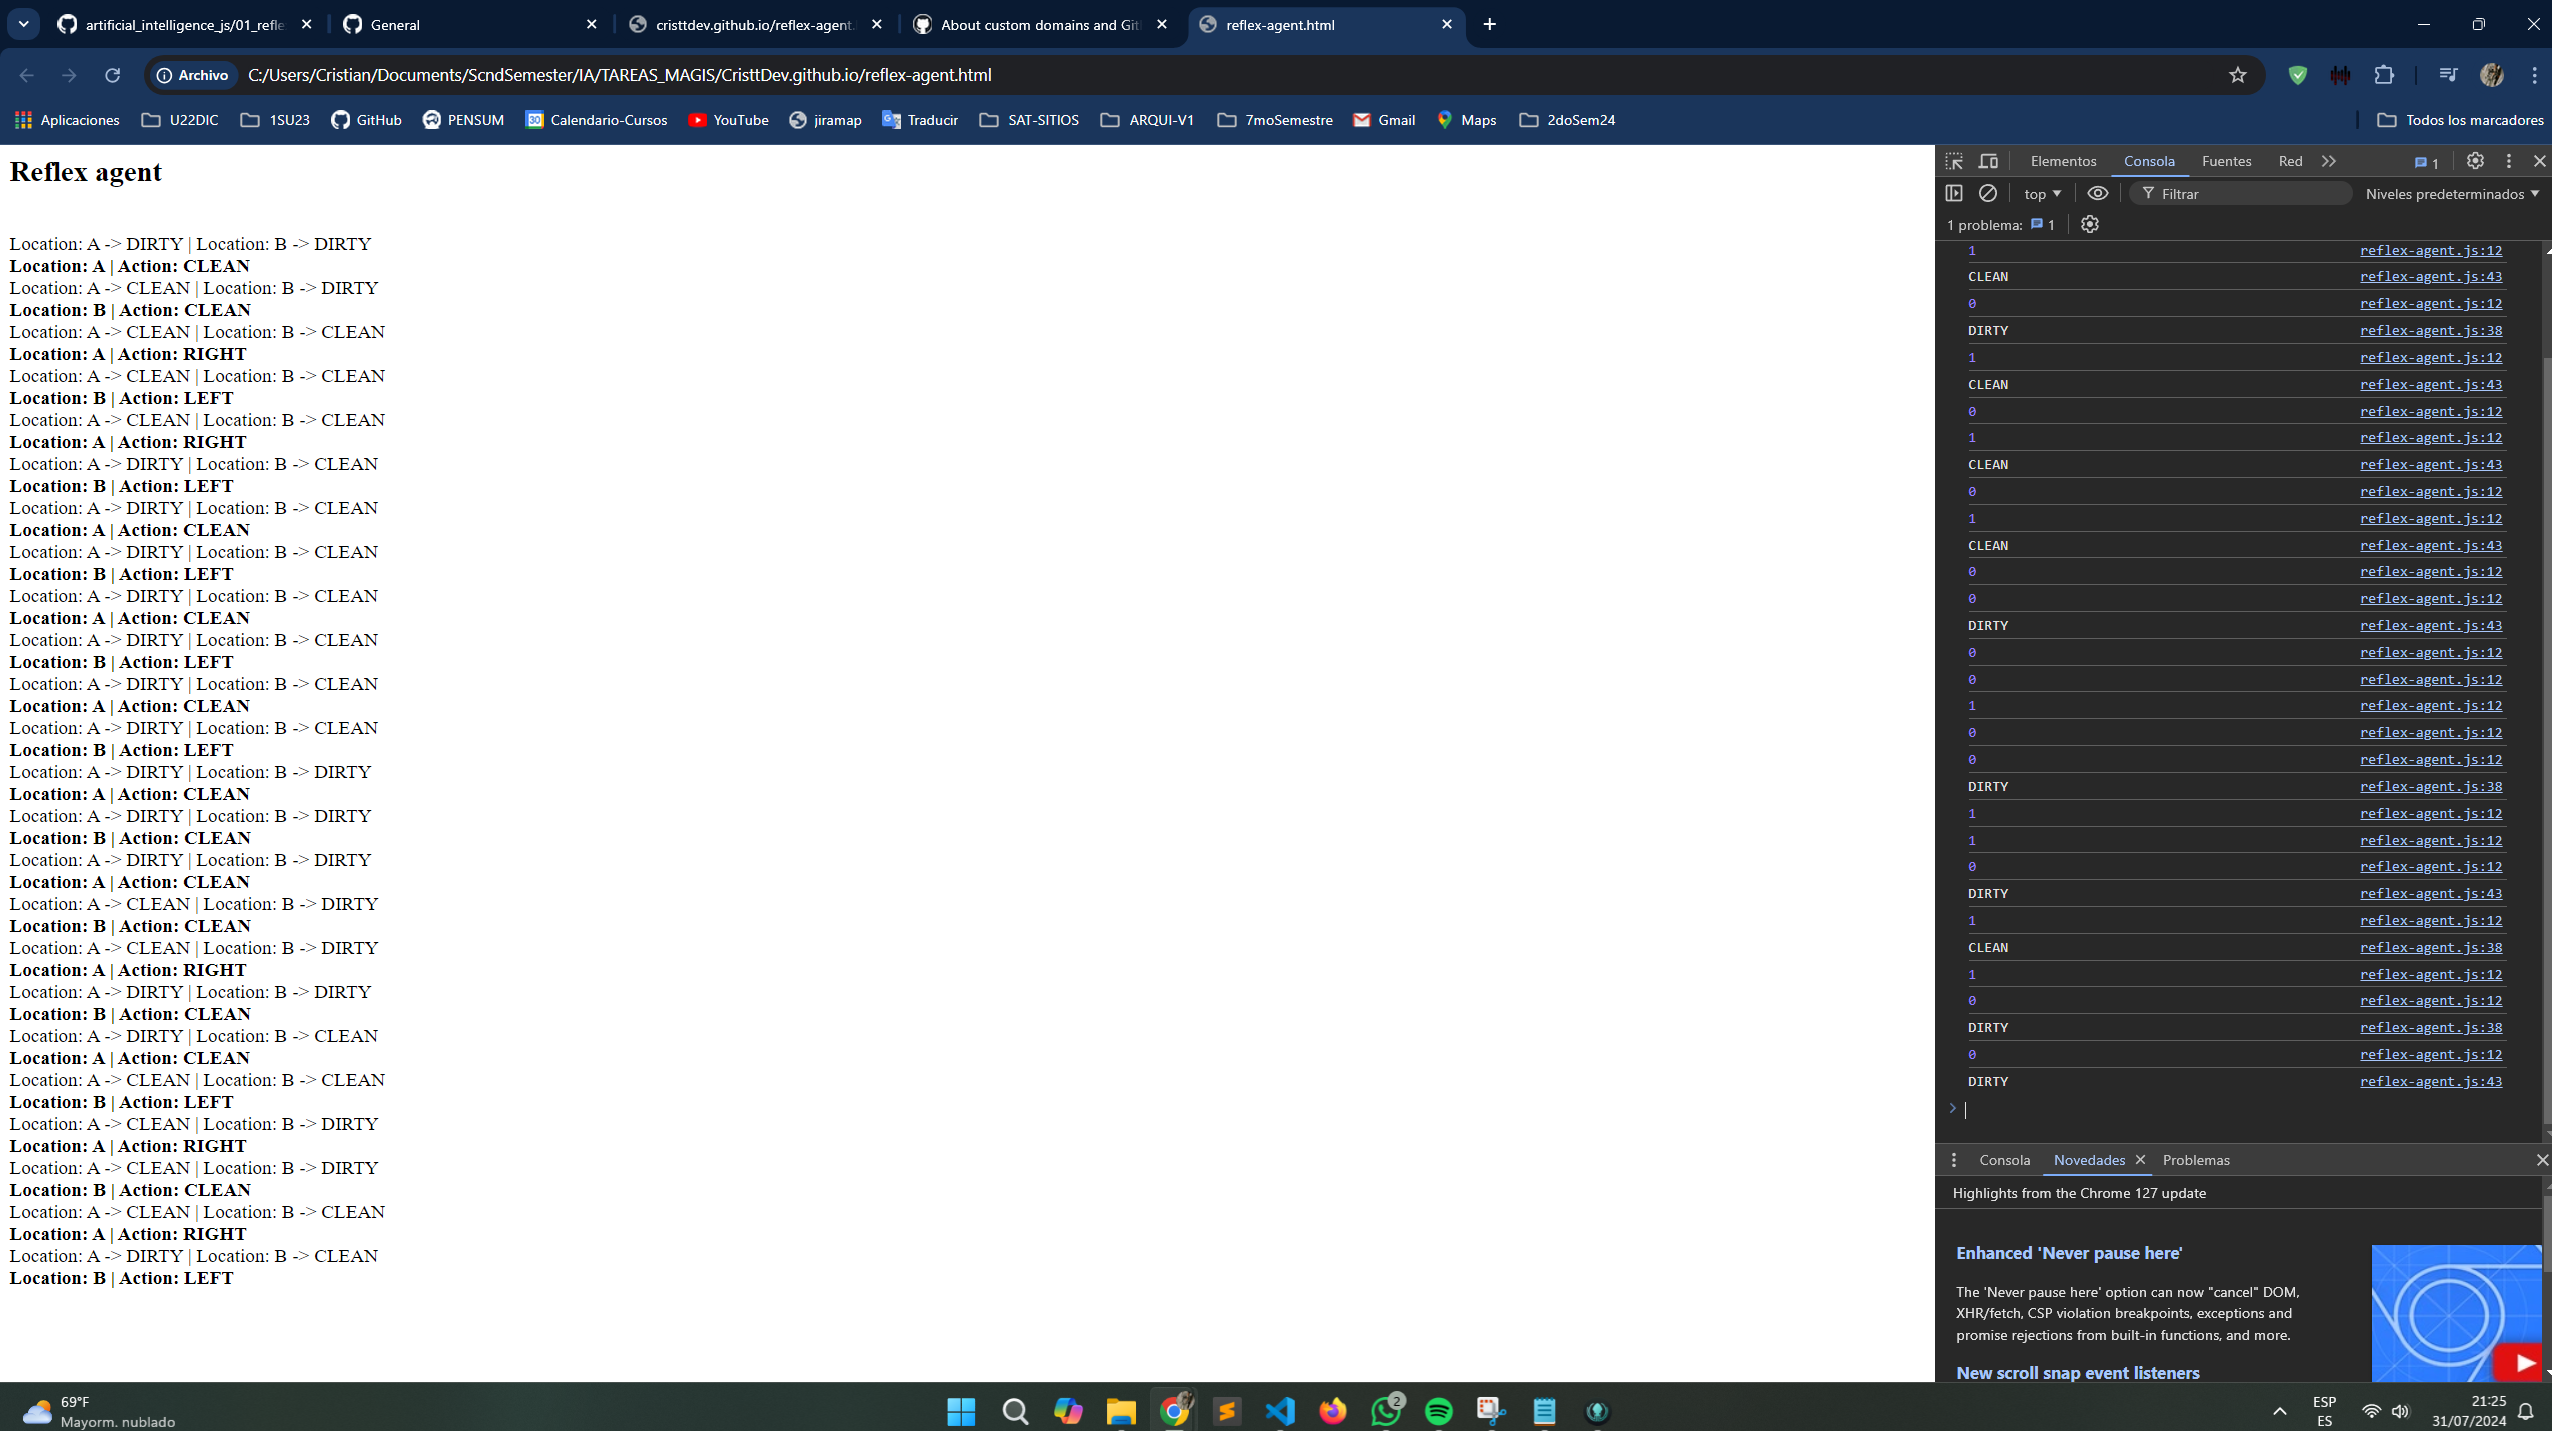
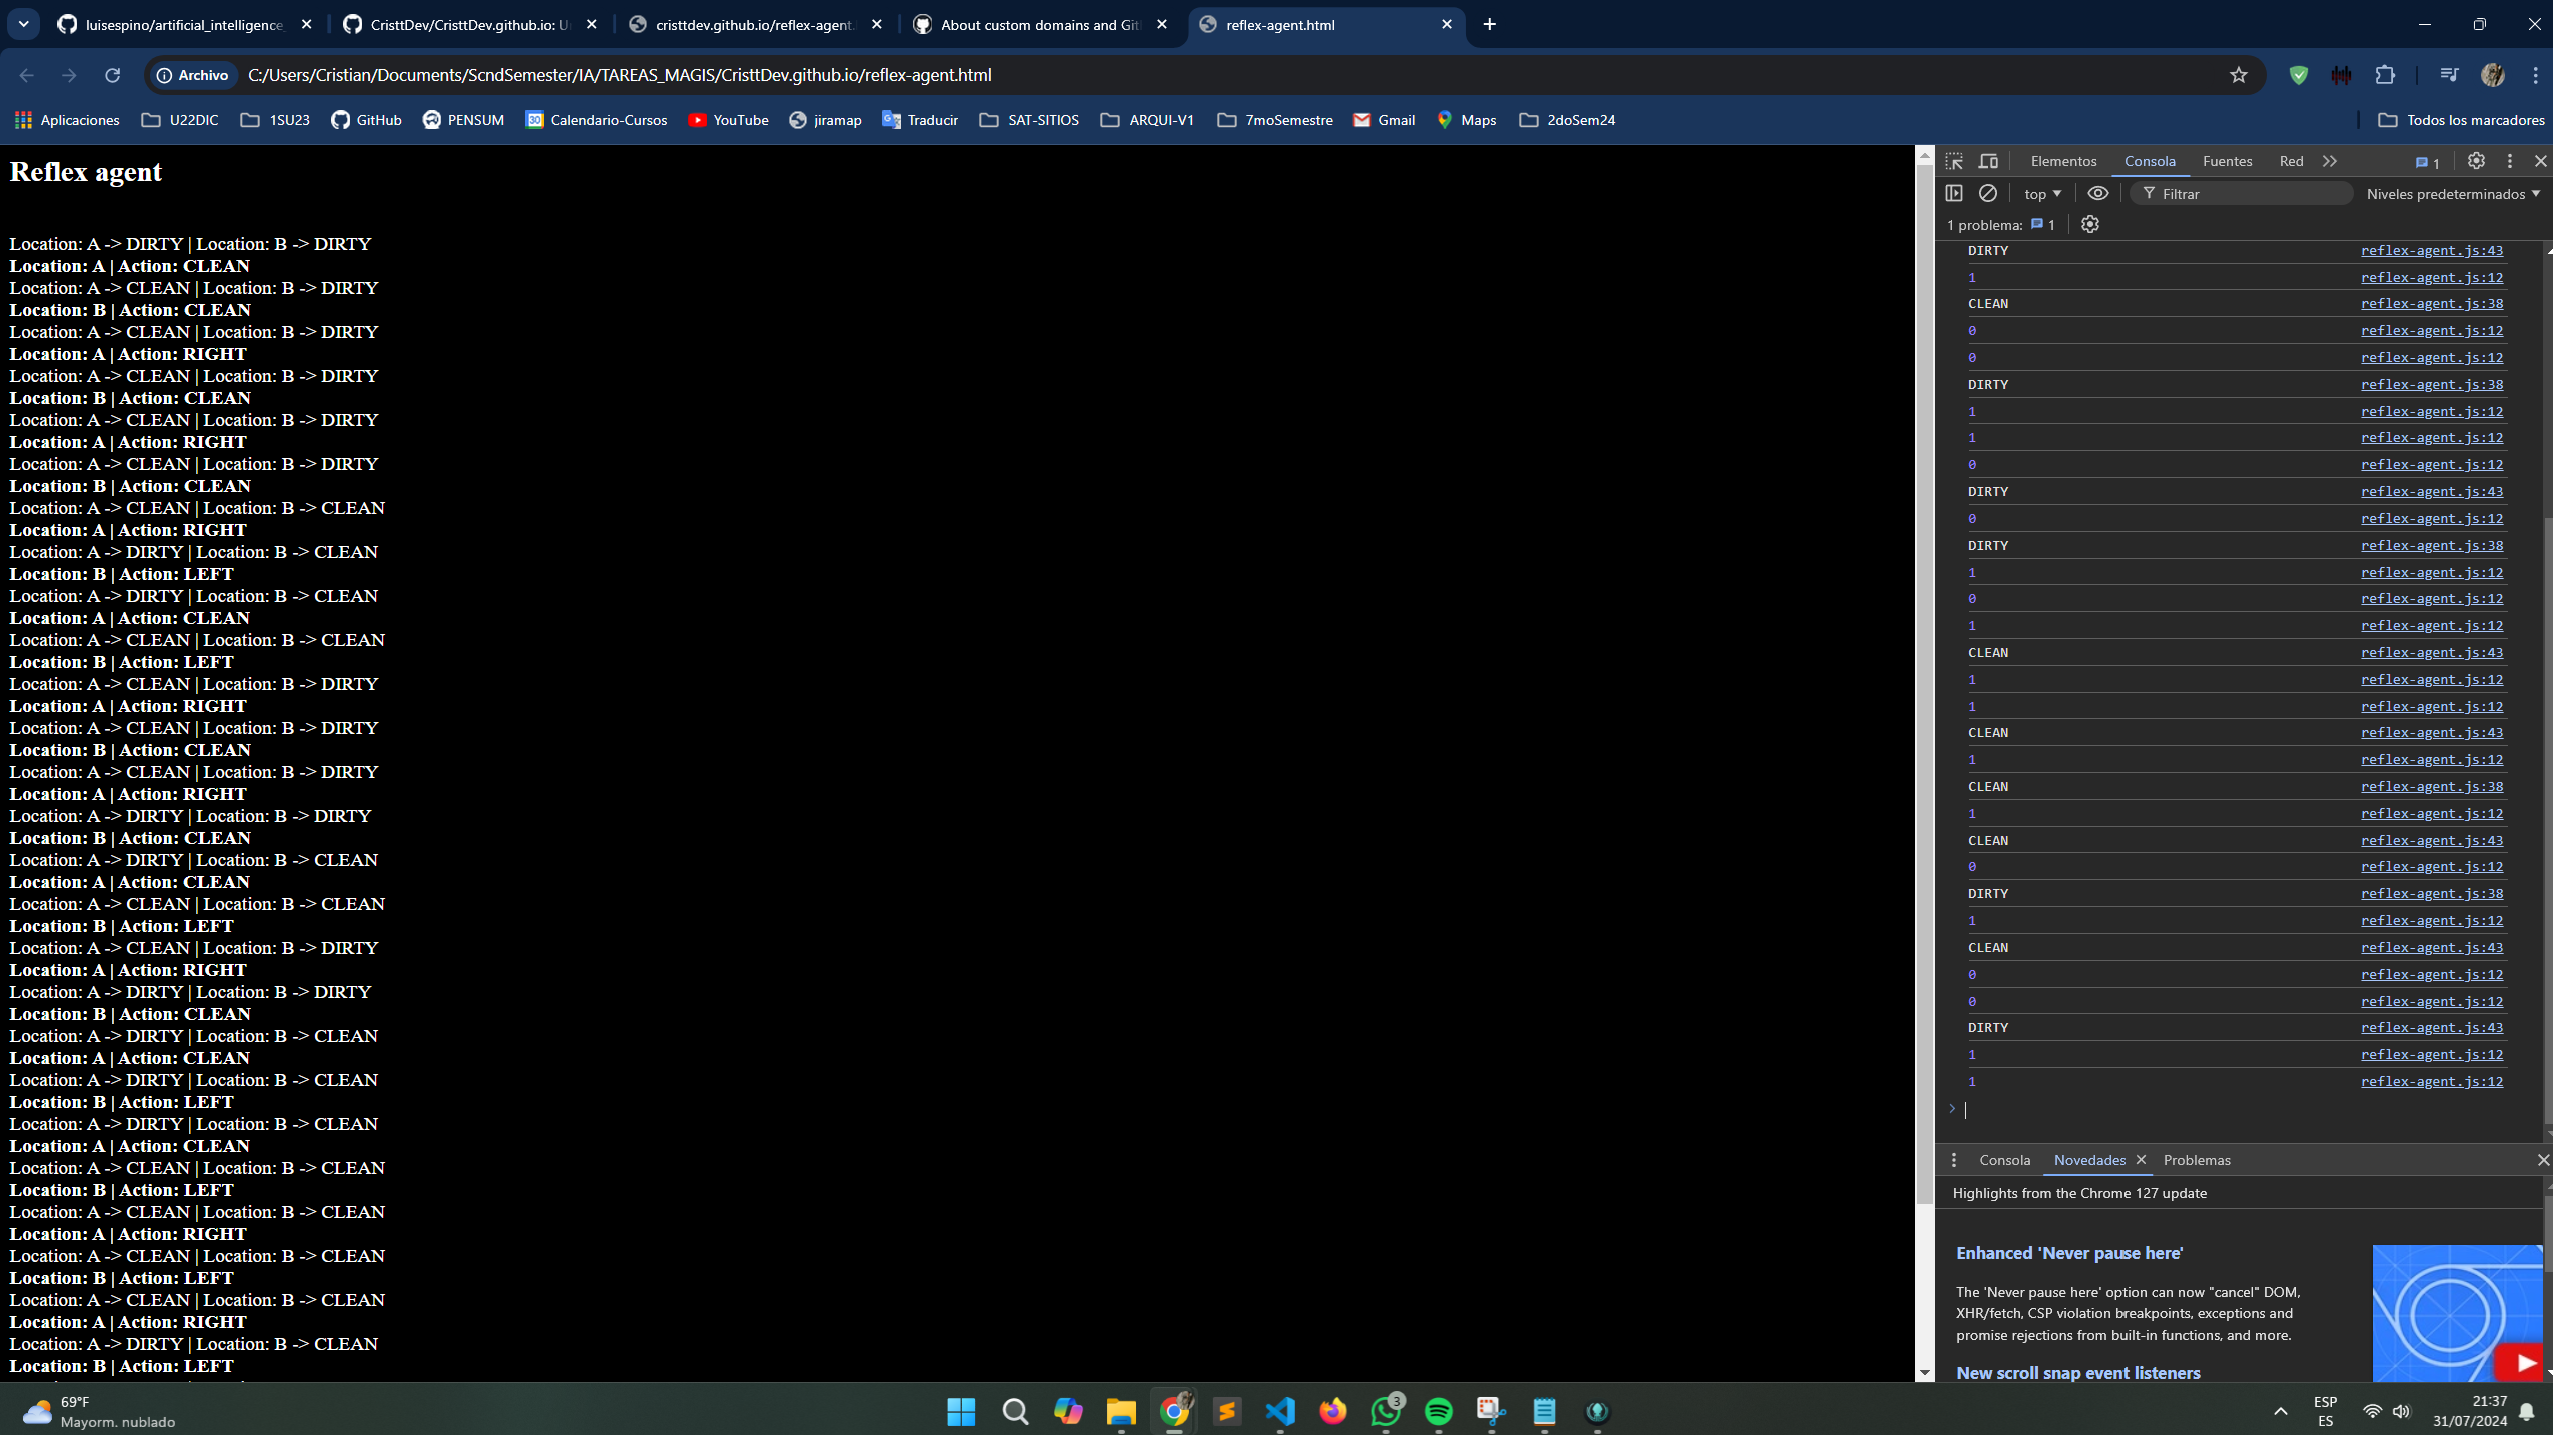
[ADD] modifica estilo pagina
se agrega el README, codigo fuente y captura de ejemplo de la salida

diff --git a/reflex-agent.html b/reflex-agent.html
@@ -1,7 +1,7 @@
 <html>
-<body>
-<h2>Reflex agent</h2>
-<p id="log"></p>
+<body style="background-color: black; color: white;">
+<h2 >Reflex agent</h2>
+<p id="log" ></p>
 <script type="text/javascript" src="reflex-agent.js"></script>
 </body>
 </html>
